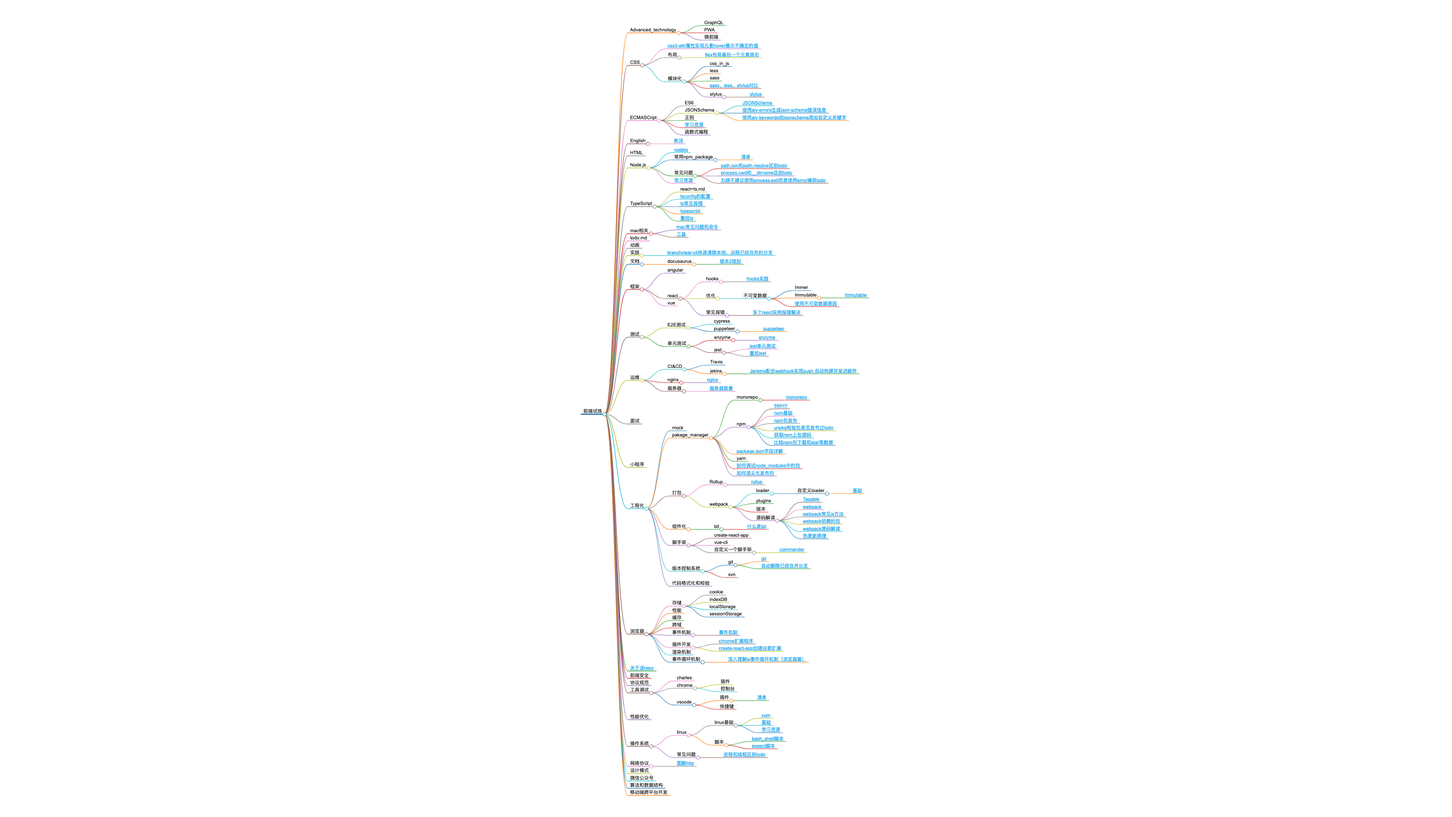
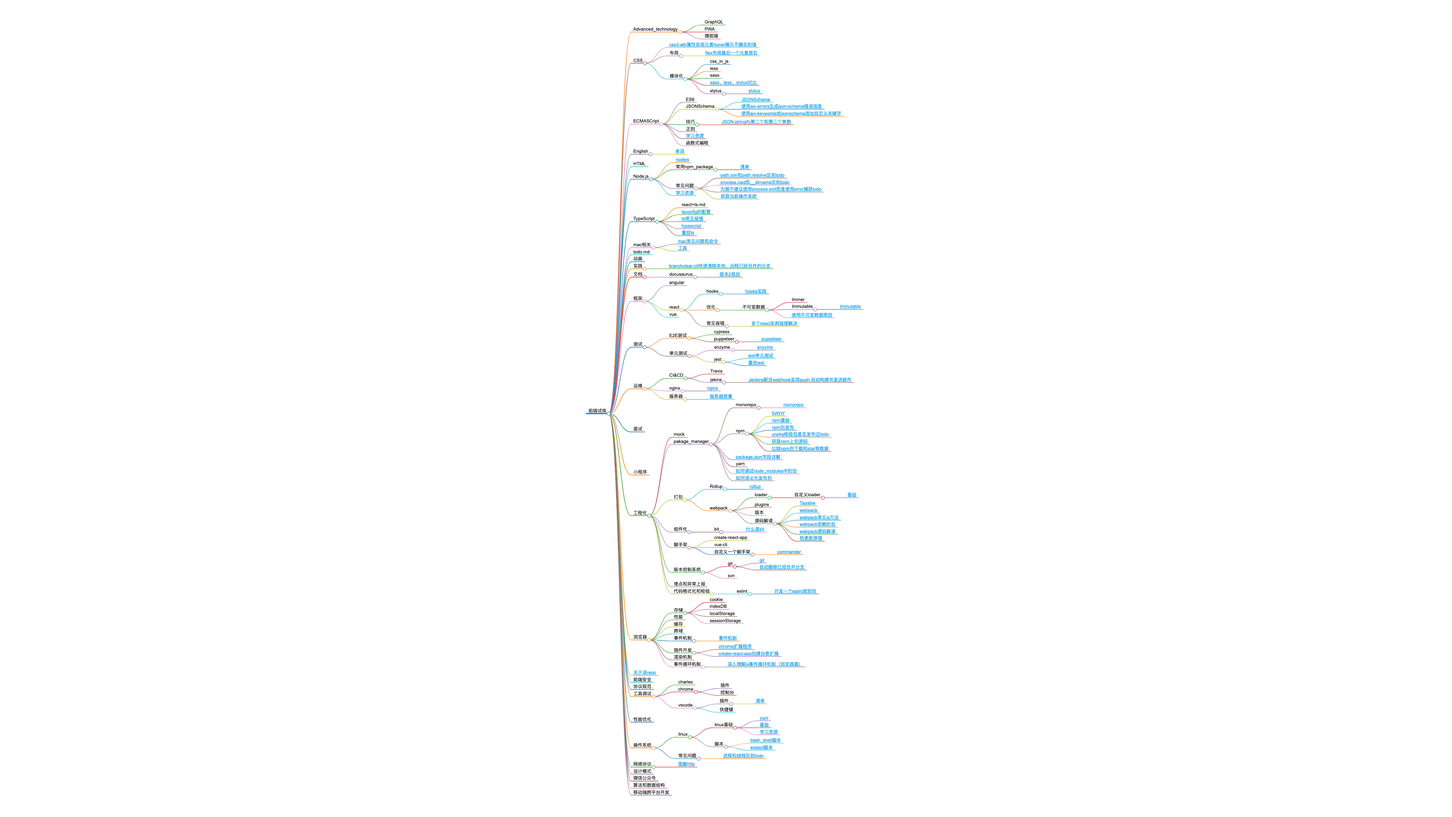
chore: updata思维导图

Changed region(s): [[0.4062, 0.031, 0.5938, 0.9926]]

diff --git a/website/static/xmind.html b/website/static/xmind.html
@@ -28,6 +28,6 @@
         (init ? init(loadPlugins, items, opts) : Promise.resolve()).then(() => {
           window.mm = Markmap.create('svg#mindmap', null, data);
         });
-      })({"t":"heading","d":1,"v":"前端试炼","c":[{"t":"list_item","d":2,"v":"Advanced_technology","c":[{"t":"list_item","d":3,"v":"GraphQL"},{"t":"list_item","d":3,"v":"PWA"},{"t":"list_item","d":3,"v":"微前端"}]},{"t":"list_item","d":2,"v":"CSS","c":[{"t":"list_item","d":3,"v":"<a href=\"docs/CSS/0729c4e1a19b9e3b6904b91e63cbd435\" title=\"\" target=\"_blank\" rel=\"noopener noreferrer\">css3-attr属性实现元素hover展示不确定的值</a>"},{"t":"list_item","d":3,"v":"布局","c":[{"t":"list_item","d":4,"v":"<a href=\"docs/CSS/布局/d894294d8c56ce41da5469f6ed173daf\" title=\"\" target=\"_blank\" rel=\"noopener noreferrer\">flex布局最后一个元素居右</a>"}]},{"t":"list_item","d":3,"v":"模块化","c":[{"t":"list_item","d":4,"v":"css_in_js"},{"t":"list_item","d":4,"v":"less"},{"t":"list_item","d":4,"v":"sass"},{"t":"list_item","d":4,"v":"<a href=\"docs/CSS/模块化/98c70242585e1c8ac87207d342ab81e0\" title=\"\" target=\"_blank\" rel=\"noopener noreferrer\">sass、less、stylus对比</a>"},{"t":"list_item","d":4,"v":"stylus","c":[{"t":"list_item","d":5,"v":"<a href=\"docs/CSS/模块化/stylus/1de4cb8a5702a6a347c89999bfa433d2\" title=\"\" target=\"_blank\" rel=\"noopener noreferrer\">stylus</a>"}]}]}]},{"t":"list_item","d":2,"v":"ECMASCript","c":[{"t":"list_item","d":3,"v":"ES6"},{"t":"list_item","d":3,"v":"JSONSchema","c":[{"t":"list_item","d":4,"v":"<a href=\"docs/ECMASCript/JSONSchema/718deb34c13a2d51e3c2ba69f472fce9\" title=\"\" target=\"_blank\" rel=\"noopener noreferrer\">JSONSchema</a>"},{"t":"list_item","d":4,"v":"<a href=\"docs/ECMASCript/JSONSchema/f7964c8f9054ea24043d6089ad339147\" title=\"\" target=\"_blank\" rel=\"noopener noreferrer\">使用ajv-errors生成json-schema错误信息</a>"},{"t":"list_item","d":4,"v":"<a href=\"docs/ECMASCript/JSONSchema/5237e232cb7cb852580db82169fdcaeb\" title=\"\" target=\"_blank\" rel=\"noopener noreferrer\">使用ajv-keywords给jsonschema添加自定义关键字</a>"}]},{"t":"list_item","d":3,"v":"正则"},{"t":"list_item","d":3,"v":"<a href=\"docs/ECMASCript/b53484b1bcbe1911e09c68d510ac7d64\" title=\"\" target=\"_blank\" rel=\"noopener noreferrer\">学习资源</a>"},{"t":"list_item","d":3,"v":"函数式编程"}]},{"t":"list_item","d":2,"v":"English","c":[{"t":"list_item","d":3,"v":"<a href=\"docs/English/72a91cf59167d6c497b1e3057447af5a\" title=\"\" target=\"_blank\" rel=\"noopener noreferrer\">单词</a>"}]},{"t":"list_item","d":2,"v":"HTML"},{"t":"list_item","d":2,"v":"Node.js","c":[{"t":"list_item","d":3,"v":"<a href=\"docs/Node.js/2e274f275e0613b306c487b358d94ab7\" title=\"\" target=\"_blank\" rel=\"noopener noreferrer\">nodejs</a>"},{"t":"list_item","d":3,"v":"常用npm_package","c":[{"t":"list_item","d":4,"v":"<a href=\"docs/Node.js/常用npm_package/9688efbb3877b7be40b25452ccaef48f\" title=\"\" target=\"_blank\" rel=\"noopener noreferrer\">清单</a>"}]},{"t":"list_item","d":3,"v":"常见问题","c":[{"t":"list_item","d":4,"v":"<a href=\"docs/Node.js/常见问题/f3a88e293ba7550437f98043f9c3f757\" title=\"\" target=\"_blank\" rel=\"noopener noreferrer\">path.join和path.resolve区别todo</a>"},{"t":"list_item","d":4,"v":"<a href=\"docs/Node.js/常见问题/35e3cab374fc073c688aa0cf2cc1e83e\" title=\"\" target=\"_blank\" rel=\"noopener noreferrer\">process.cwd和__dirname区别todo</a>"},{"t":"list_item","d":4,"v":"<a href=\"docs/Node.js/常见问题/181a14245a9ee55171de2d116970a240\" title=\"\" target=\"_blank\" rel=\"noopener noreferrer\">为啥不建议使用process.exit而是使用error捕获todo</a>"}]},{"t":"list_item","d":3,"v":"<a href=\"docs/ECMASCript/b53484b1bcbe1911e09c68d510ac7d64\" title=\"\" target=\"_blank\" rel=\"noopener noreferrer\">学习资源</a>"}]},{"t":"list_item","d":2,"v":"TypeScript","c":[{"t":"list_item","d":3,"v":"react+ts.md"},{"t":"list_item","d":3,"v":"<a href=\"docs/TypeScript/4a8620d3409c9ccc2760c0abdf77eb66\" title=\"\" target=\"_blank\" rel=\"noopener noreferrer\">tsconfig的配置</a>"},{"t":"list_item","d":3,"v":"<a href=\"docs/TypeScript/32bf4b312a9b194926bd9464ec44dbf1\" title=\"\" target=\"_blank\" rel=\"noopener noreferrer\">ts常见报错</a>"},{"t":"list_item","d":3,"v":"<a href=\"docs/TypeScript/808567b84cc51ad515d4820e54f84e31\" title=\"\" target=\"_blank\" rel=\"noopener noreferrer\">typescript</a>"},{"t":"list_item","d":3,"v":"<a href=\"docs/TypeScript/b36f6376acc1abd98aab96ef91491d2b\" title=\"\" target=\"_blank\" rel=\"noopener noreferrer\">重拾ts</a>"}]},{"t":"list_item","d":2,"v":"mac相关","c":[{"t":"list_item","d":3,"v":"<a href=\"docs/mac相关/a44fd8dd59298708f41334a88822b962\" title=\"\" target=\"_blank\" rel=\"noopener noreferrer\">mac常见问题和命令</a>"},{"t":"list_item","d":3,"v":"<a href=\"docs/mac相关/2b9f15fd56b0c6b3cd5a33c28fc68157\" title=\"\" target=\"_blank\" rel=\"noopener noreferrer\">工具</a>"}]},{"t":"list_item","d":2,"v":"todo.md"},{"t":"list_item","d":2,"v":"动画"},{"t":"list_item","d":2,"v":"实践","c":[{"t":"list_item","d":3,"v":"<a href=\"docs/实践/626060a4af5e1540907d7bcd2416544c\" title=\"\" target=\"_blank\" rel=\"noopener noreferrer\">branchclear-cli快速清除本地、远程已经合并的分支</a>"}]},{"t":"list_item","d":2,"v":"文档","c":[{"t":"list_item","d":3,"v":"docusaurus","c":[{"t":"list_item","d":4,"v":"<a href=\"docs/文档/docusaurus/a7934b68b6234157a1af4087537d1e8b\" title=\"\" target=\"_blank\" rel=\"noopener noreferrer\">版本2规划</a>"}]}]},{"t":"list_item","d":2,"v":"框架","c":[{"t":"list_item","d":3,"v":"angular"},{"t":"list_item","d":3,"v":"react","c":[{"t":"list_item","d":4,"v":"hooks","c":[{"t":"list_item","d":5,"v":"<a href=\"docs/框架/react/hooks/cc79a47e7d739125f1566a487e26fb99\" title=\"\" target=\"_blank\" rel=\"noopener noreferrer\">hooks实践</a>"}]},{"t":"list_item","d":4,"v":"优化","c":[{"t":"list_item","d":5,"v":"不可变数据","c":[{"t":"list_item","d":6,"v":"Immer"},{"t":"list_item","d":6,"v":"Immutable","c":[{"t":"list_item","d":7,"v":"<a href=\"docs/框架/react/优化/不可变数据/Immutable/1d3d9edc29eec0f35eaf85c9e8d5b659\" title=\"\" target=\"_blank\" rel=\"noopener noreferrer\">Immutable</a>"}]},{"t":"list_item","d":6,"v":"<a href=\"docs/框架/react/优化/不可变数据/7f536cb00c3fdc6439f768fb47f7a59e\" title=\"\" target=\"_blank\" rel=\"noopener noreferrer\">使用不可变数据原因</a>"}]}]},{"t":"list_item","d":4,"v":"常见报错","c":[{"t":"list_item","d":5,"v":"<a href=\"docs/框架/react/常见报错/7d0e60c89a5f550eadf89f5f22550bcc\" title=\"\" target=\"_blank\" rel=\"noopener noreferrer\">多个react实例报错解决</a>"}]}]},{"t":"list_item","d":3,"v":"vue"}]},{"t":"list_item","d":2,"v":"测试","c":[{"t":"list_item","d":3,"v":"E2E测试","c":[{"t":"list_item","d":4,"v":"cypress"},{"t":"list_item","d":4,"v":"puppeteer","c":[{"t":"list_item","d":5,"v":"<a href=\"docs/测试/E2E测试/puppeteer/179673e977b3c3f9ad055a4b4a1e4eff\" title=\"\" target=\"_blank\" rel=\"noopener noreferrer\">puppeteer</a>"}]}]},{"t":"list_item","d":3,"v":"单元测试","c":[{"t":"list_item","d":4,"v":"enzyme","c":[{"t":"list_item","d":5,"v":"<a href=\"docs/测试/单元测试/enzyme/ff68fd239a281351a53d6e0b62b17fe7\" title=\"\" target=\"_blank\" rel=\"noopener noreferrer\">enzyme</a>"}]},{"t":"list_item","d":4,"v":"jest","c":[{"t":"list_item","d":5,"v":"<a href=\"docs/测试/单元测试/jest/094b039468990ad513f1f8dd484d8dc2\" title=\"\" target=\"_blank\" rel=\"noopener noreferrer\">jest单元测试</a>"},{"t":"list_item","d":5,"v":"<a href=\"docs/测试/单元测试/jest/b1f6cee7ef1784df1f5f69a9c4a785da\" title=\"\" target=\"_blank\" rel=\"noopener noreferrer\">重拾jest</a>"}]}]}]},{"t":"list_item","d":2,"v":"运维","c":[{"t":"list_item","d":3,"v":"CI&amp;CD","c":[{"t":"list_item","d":4,"v":"Travis"},{"t":"list_item","d":4,"v":"jekins","c":[{"t":"list_item","d":5,"v":"<a href=\"docs/运维/CI&amp;CD/jekins/d945d19c0ddc3f3d3fd73e4e1dabfcf1\" title=\"\" target=\"_blank\" rel=\"noopener noreferrer\">Jenkins配合webhook实现push,自动构建并发送邮件</a>"}]}]},{"t":"list_item","d":3,"v":"nginx","c":[{"t":"list_item","d":4,"v":"<a href=\"docs/运维/nginx/df1da39a6e72280164ae3ce63cb1fc4a\" title=\"\" target=\"_blank\" rel=\"noopener noreferrer\">nginx</a>"}]},{"t":"list_item","d":3,"v":"服务器","c":[{"t":"list_item","d":4,"v":"<a href=\"docs/运维/服务器/08c9e14f9b32a6e0c3ce858267d3e639\" title=\"\" target=\"_blank\" rel=\"noopener noreferrer\">服务器部署</a>"}]}]},{"t":"list_item","d":2,"v":"面试"},{"t":"list_item","d":2,"v":"小程序"},{"t":"list_item","d":2,"v":"工程化","c":[{"t":"list_item","d":3,"v":"mock"},{"t":"list_item","d":3,"v":"pakage_manager","c":[{"t":"list_item","d":4,"v":"monorepo","c":[{"t":"list_item","d":5,"v":"<a href=\"docs/工程化/pakage_manager/monorepo/8f5278ed6bda43d57e7b77d4c5a243e6\" title=\"\" target=\"_blank\" rel=\"noopener noreferrer\">monorepo</a>"}]},{"t":"list_item","d":4,"v":"npm","c":[{"t":"list_item","d":5,"v":"<a href=\"docs/工程化/pakage_manager/npm/c7133389f53e8d534c388d5ce8b37459\" title=\"\" target=\"_blank\" rel=\"noopener noreferrer\">5WHY</a>"},{"t":"list_item","d":5,"v":"<a href=\"docs/工程化/pakage_manager/npm/4bc8b6d9c0d959fc89304c7b6ca759d2\" title=\"\" target=\"_blank\" rel=\"noopener noreferrer\">npm基础</a>"},{"t":"list_item","d":5,"v":"<a href=\"docs/工程化/pakage_manager/npm/ba56c3b18aefa148f9439f026ec3f973\" title=\"\" target=\"_blank\" rel=\"noopener noreferrer\">npm包发布</a>"},{"t":"list_item","d":5,"v":"<a href=\"docs/工程化/pakage_manager/npm/d65b7b7b836dd8738e6504b00c5d8ec9\" title=\"\" target=\"_blank\" rel=\"noopener noreferrer\">unpkg校验包是否发布过todo</a>"},{"t":"list_item","d":5,"v":"<a href=\"docs/工程化/pakage_manager/npm/09b0d7c93d19d925aaec8215b046a974\" title=\"\" target=\"_blank\" rel=\"noopener noreferrer\">获取npm上包源码</a>"},{"t":"list_item","d":5,"v":"<a href=\"docs/工程化/pakage_manager/npm/c6ce67aed5b47d0a31123ae15d9e581a\" title=\"\" target=\"_blank\" rel=\"noopener noreferrer\">比较npm包下载和star等数据</a>"}]},{"t":"list_item","d":4,"v":"<a href=\"docs/工程化/pakage_manager/38f14e8081af1e36ddd422fa9b4db94a\" title=\"\" target=\"_blank\" rel=\"noopener noreferrer\">package.json字段详解</a>"},{"t":"list_item","d":4,"v":"yarn"},{"t":"list_item","d":4,"v":"<a href=\"docs/工程化/pakage_manager/e6a07bea153f8b002ef8dc47f8bc1311\" title=\"\" target=\"_blank\" rel=\"noopener noreferrer\">如何调试node_modules中的包</a>"},{"t":"list_item","d":4,"v":"<a href=\"docs/工程化/pakage_manager/ec0f88d99c3ac3c6b5038c575ac4d1ce\" title=\"\" target=\"_blank\" rel=\"noopener noreferrer\">如何语义化发布包</a>"}]},{"t":"list_item","d":3,"v":"打包","c":[{"t":"list_item","d":4,"v":"Rollup","c":[{"t":"list_item","d":5,"v":"<a href=\"docs/工程化/打包/Rollup/4918d3072fb3da6be9ad6cfe54c020f3\" title=\"\" target=\"_blank\" rel=\"noopener noreferrer\">rollup</a>"}]},{"t":"list_item","d":4,"v":"webpack","c":[{"t":"list_item","d":5,"v":"loader","c":[{"t":"list_item","d":6,"v":"自定义loader","c":[{"t":"list_item","d":7,"v":"<a href=\"docs/工程化/打包/webpack/loader/自定义loader/9b68a2b86fd6b41392413eebbe754257\" title=\"\" target=\"_blank\" rel=\"noopener noreferrer\">基础</a>"}]}]},{"t":"list_item","d":5,"v":"plugins"},{"t":"list_item","d":5,"v":"版本"},{"t":"list_item","d":5,"v":"源码解读","c":[{"t":"list_item","d":6,"v":"<a href=\"docs/工程化/打包/webpack/源码解读/3044cf73a36f83e5344247f79ffb719e\" title=\"\" target=\"_blank\" rel=\"noopener noreferrer\">Tapable</a>"},{"t":"list_item","d":6,"v":"<a href=\"docs/工程化/打包/webpack/源码解读/8b9409a6ad189493556150ffca9a2079\" title=\"\" target=\"_blank\" rel=\"noopener noreferrer\">webpack</a>"},{"t":"list_item","d":6,"v":"<a href=\"docs/工程化/打包/webpack/源码解读/7cb10912f28c1696659c6131b517f27c\" title=\"\" target=\"_blank\" rel=\"noopener noreferrer\">webpack常见js方法</a>"},{"t":"list_item","d":6,"v":"<a href=\"docs/工程化/打包/webpack/源码解读/0889ebe5191ee49173a6c02e5d4ccd6f\" title=\"\" target=\"_blank\" rel=\"noopener noreferrer\">webpack依赖的包</a>"},{"t":"list_item","d":6,"v":"<a href=\"docs/工程化/打包/webpack/源码解读/80e8979bbebe30571bf98fea6d3b32d0\" title=\"\" target=\"_blank\" rel=\"noopener noreferrer\">webpack源码解读</a>"},{"t":"list_item","d":6,"v":"<a href=\"docs/工程化/打包/webpack/源码解读/768e191e2dc797ba437ddbf619dcf3b5\" title=\"\" target=\"_blank\" rel=\"noopener noreferrer\">热更新原理</a>"}]}]}]},{"t":"list_item","d":3,"v":"组件化","c":[{"t":"list_item","d":4,"v":"bit","c":[{"t":"list_item","d":5,"v":"<a href=\"docs/工程化/组件化/bit/a0d47b851468953d2c75ec36293fc240\" title=\"\" target=\"_blank\" rel=\"noopener noreferrer\">什么是bit</a>"}]}]},{"t":"list_item","d":3,"v":"脚手架","c":[{"t":"list_item","d":4,"v":"create-react-app"},{"t":"list_item","d":4,"v":"vue-cli"},{"t":"list_item","d":4,"v":"自定义一个脚手架","c":[{"t":"list_item","d":5,"v":"<a href=\"docs/工程化/脚手架/自定义一个脚手架/e1f3c1423014acd77d6282114faf6935\" title=\"\" target=\"_blank\" rel=\"noopener noreferrer\">commander</a>"}]}]},{"t":"list_item","d":3,"v":"版本控制系统","c":[{"t":"list_item","d":4,"v":"git","c":[{"t":"list_item","d":5,"v":"<a href=\"docs/工程化/版本控制系统/git/85735fc293ff4dbf3ef3e42201cb061d\" title=\"\" target=\"_blank\" rel=\"noopener noreferrer\">git</a>"},{"t":"list_item","d":5,"v":"<a href=\"docs/工程化/版本控制系统/git/7ee6448a4e193516af12ff819b930f2f\" title=\"\" target=\"_blank\" rel=\"noopener noreferrer\">自动删除已经合并分支</a>"}]},{"t":"list_item","d":4,"v":"svn"}]},{"t":"list_item","d":3,"v":"代码格式化和校验"}]},{"t":"list_item","d":2,"v":"浏览器","c":[{"t":"list_item","d":3,"v":"存储","c":[{"t":"list_item","d":4,"v":"cookie"},{"t":"list_item","d":4,"v":"indexDB"},{"t":"list_item","d":4,"v":"localStorage"},{"t":"list_item","d":4,"v":"sessionStorage"}]},{"t":"list_item","d":3,"v":"性能"},{"t":"list_item","d":3,"v":"缓存"},{"t":"list_item","d":3,"v":"跨域"},{"t":"list_item","d":3,"v":"事件机制","c":[{"t":"list_item","d":4,"v":"<a href=\"docs/浏览器/事件机制/7af5dc889f753bd70e5f7ef171c7060f\" title=\"\" target=\"_blank\" rel=\"noopener noreferrer\">事件机制</a>"}]},{"t":"list_item","d":3,"v":"插件开发","c":[{"t":"list_item","d":4,"v":"<a href=\"docs/浏览器/插件开发/2c4c0445df023db773d193c34210f844\" title=\"\" target=\"_blank\" rel=\"noopener noreferrer\">chrome扩展程序</a>"},{"t":"list_item","d":4,"v":"<a href=\"docs/浏览器/插件开发/bfe71b448da24918198c18263f04233a\" title=\"\" target=\"_blank\" rel=\"noopener noreferrer\">create-react-app创建谷歌扩展</a>"}]},{"t":"list_item","d":3,"v":"渲染机制"},{"t":"list_item","d":3,"v":"事件循环机制","c":[{"t":"list_item","d":4,"v":"<a href=\"docs/浏览器/事件循环机制/dc678db259507b0c4aeb94631e2dc8a7\" title=\"\" target=\"_blank\" rel=\"noopener noreferrer\">深入理解js事件循环机制（浏览器篇）</a>"}]}]},{"t":"list_item","d":2,"v":"<a href=\"docs/95a148348b289ba387509c05eb1c6af2\" title=\"\" target=\"_blank\" rel=\"noopener noreferrer\">关于该repo</a>"},{"t":"list_item","d":2,"v":"前端安全"},{"t":"list_item","d":2,"v":"协议规范"},{"t":"list_item","d":2,"v":"工具调试","c":[{"t":"list_item","d":3,"v":"charles"},{"t":"list_item","d":3,"v":"chrome","c":[{"t":"list_item","d":4,"v":"插件"},{"t":"list_item","d":4,"v":"控制台"}]},{"t":"list_item","d":3,"v":"vscode","c":[{"t":"list_item","d":4,"v":"插件","c":[{"t":"list_item","d":5,"v":"<a href=\"docs/Node.js/常用npm_package/9688efbb3877b7be40b25452ccaef48f\" title=\"\" target=\"_blank\" rel=\"noopener noreferrer\">清单</a>"}]},{"t":"list_item","d":4,"v":"快捷键"}]}]},{"t":"list_item","d":2,"v":"性能优化"},{"t":"list_item","d":2,"v":"操作系统","c":[{"t":"list_item","d":3,"v":"linux","c":[{"t":"list_item","d":4,"v":"linux基础","c":[{"t":"list_item","d":5,"v":"<a href=\"docs/操作系统/linux/linux基础/760bccd78d82b9e52641e9273b7baad5\" title=\"\" target=\"_blank\" rel=\"noopener noreferrer\">yum</a>"},{"t":"list_item","d":5,"v":"<a href=\"docs/工程化/打包/webpack/loader/自定义loader/9b68a2b86fd6b41392413eebbe754257\" title=\"\" target=\"_blank\" rel=\"noopener noreferrer\">基础</a>"},{"t":"list_item","d":5,"v":"<a href=\"docs/ECMASCript/b53484b1bcbe1911e09c68d510ac7d64\" title=\"\" target=\"_blank\" rel=\"noopener noreferrer\">学习资源</a>"}]},{"t":"list_item","d":4,"v":"脚本","c":[{"t":"list_item","d":5,"v":"<a href=\"docs/操作系统/linux/脚本/5d8743a01675138db72310478b6c7f30\" title=\"\" target=\"_blank\" rel=\"noopener noreferrer\">bash_shell脚本</a>"},{"t":"list_item","d":5,"v":"<a href=\"docs/操作系统/linux/脚本/c89e3ed149c086944696ba0fe3a5ffde\" title=\"\" target=\"_blank\" rel=\"noopener noreferrer\">expect脚本</a>"}]}]},{"t":"list_item","d":3,"v":"常见问题","c":[{"t":"list_item","d":4,"v":"<a href=\"docs/操作系统/常见问题/5d2f732d1880309d622ee322b766ddcb\" title=\"\" target=\"_blank\" rel=\"noopener noreferrer\">进程和线程区别todo</a>"}]}]},{"t":"list_item","d":2,"v":"网络协议","c":[{"t":"list_item","d":3,"v":"<a href=\"docs/网络协议/a7785cd0374e6044ab0a1c64fbbc81fa\" title=\"\" target=\"_blank\" rel=\"noopener noreferrer\">图解http</a>"}]},{"t":"list_item","d":2,"v":"设计模式"},{"t":"list_item","d":2,"v":"微信公众号"},{"t":"list_item","d":2,"v":"算法和数据结构"},{"t":"list_item","d":2,"v":"移动端跨平台开发"}]},(loadPlugins, items, opts) => loadPlugins(items, opts),["prism"],{"prism":true})</script>
+      })({"t":"heading","d":1,"v":"前端试炼","c":[{"t":"list_item","d":2,"v":"Advanced_technology","c":[{"t":"list_item","d":3,"v":"GraphQL"},{"t":"list_item","d":3,"v":"PWA"},{"t":"list_item","d":3,"v":"微前端"}]},{"t":"list_item","d":2,"v":"CSS","c":[{"t":"list_item","d":3,"v":"<a href=\"docs/CSS/0729c4e1a19b9e3b6904b91e63cbd435\" title=\"\" target=\"_blank\" rel=\"noopener noreferrer\">css3-attr属性实现元素hover展示不确定的值</a>"},{"t":"list_item","d":3,"v":"布局","c":[{"t":"list_item","d":4,"v":"<a href=\"docs/CSS/布局/d894294d8c56ce41da5469f6ed173daf\" title=\"\" target=\"_blank\" rel=\"noopener noreferrer\">flex布局最后一个元素居右</a>"}]},{"t":"list_item","d":3,"v":"模块化","c":[{"t":"list_item","d":4,"v":"css_in_js"},{"t":"list_item","d":4,"v":"less"},{"t":"list_item","d":4,"v":"sass"},{"t":"list_item","d":4,"v":"<a href=\"docs/CSS/模块化/98c70242585e1c8ac87207d342ab81e0\" title=\"\" target=\"_blank\" rel=\"noopener noreferrer\">sass、less、stylus对比</a>"},{"t":"list_item","d":4,"v":"stylus","c":[{"t":"list_item","d":5,"v":"<a href=\"docs/CSS/模块化/stylus/1de4cb8a5702a6a347c89999bfa433d2\" title=\"\" target=\"_blank\" rel=\"noopener noreferrer\">stylus</a>"}]}]}]},{"t":"list_item","d":2,"v":"ECMASCript","c":[{"t":"list_item","d":3,"v":"ES6"},{"t":"list_item","d":3,"v":"JSONSchema","c":[{"t":"list_item","d":4,"v":"<a href=\"docs/ECMASCript/JSONSchema/718deb34c13a2d51e3c2ba69f472fce9\" title=\"\" target=\"_blank\" rel=\"noopener noreferrer\">JSONSchema</a>"},{"t":"list_item","d":4,"v":"<a href=\"docs/ECMASCript/JSONSchema/f7964c8f9054ea24043d6089ad339147\" title=\"\" target=\"_blank\" rel=\"noopener noreferrer\">使用ajv-errors生成json-schema错误信息</a>"},{"t":"list_item","d":4,"v":"<a href=\"docs/ECMASCript/JSONSchema/5237e232cb7cb852580db82169fdcaeb\" title=\"\" target=\"_blank\" rel=\"noopener noreferrer\">使用ajv-keywords给jsonschema添加自定义关键字</a>"}]},{"t":"list_item","d":3,"v":"技巧","c":[{"t":"list_item","d":4,"v":"<a href=\"docs/ECMASCript/技巧/5ba5a0a4b23bea437b86bee22027111d\" title=\"\" target=\"_blank\" rel=\"noopener noreferrer\">JSON.stringify第二个和第三个参数</a>"}]},{"t":"list_item","d":3,"v":"正则"},{"t":"list_item","d":3,"v":"<a href=\"docs/ECMASCript/b53484b1bcbe1911e09c68d510ac7d64\" title=\"\" target=\"_blank\" rel=\"noopener noreferrer\">学习资源</a>"},{"t":"list_item","d":3,"v":"函数式编程"}]},{"t":"list_item","d":2,"v":"English","c":[{"t":"list_item","d":3,"v":"<a href=\"docs/English/72a91cf59167d6c497b1e3057447af5a\" title=\"\" target=\"_blank\" rel=\"noopener noreferrer\">单词</a>"}]},{"t":"list_item","d":2,"v":"HTML"},{"t":"list_item","d":2,"v":"Node.js","c":[{"t":"list_item","d":3,"v":"<a href=\"docs/Node.js/2e274f275e0613b306c487b358d94ab7\" title=\"\" target=\"_blank\" rel=\"noopener noreferrer\">nodejs</a>"},{"t":"list_item","d":3,"v":"常用npm_package","c":[{"t":"list_item","d":4,"v":"<a href=\"docs/Node.js/常用npm_package/9688efbb3877b7be40b25452ccaef48f\" title=\"\" target=\"_blank\" rel=\"noopener noreferrer\">清单</a>"}]},{"t":"list_item","d":3,"v":"常见问题","c":[{"t":"list_item","d":4,"v":"<a href=\"docs/Node.js/常见问题/f3a88e293ba7550437f98043f9c3f757\" title=\"\" target=\"_blank\" rel=\"noopener noreferrer\">path.join和path.resolve区别todo</a>"},{"t":"list_item","d":4,"v":"<a href=\"docs/Node.js/常见问题/35e3cab374fc073c688aa0cf2cc1e83e\" title=\"\" target=\"_blank\" rel=\"noopener noreferrer\">process.cwd和__dirname区别todo</a>"},{"t":"list_item","d":4,"v":"<a href=\"docs/Node.js/常见问题/181a14245a9ee55171de2d116970a240\" title=\"\" target=\"_blank\" rel=\"noopener noreferrer\">为啥不建议使用process.exit而是使用error捕获todo</a>"},{"t":"list_item","d":4,"v":"<a href=\"docs/Node.js/常见问题/34f53dc634b7e09e8d32279fb508f4c5\" title=\"\" target=\"_blank\" rel=\"noopener noreferrer\">获取当前操作系统</a>"}]},{"t":"list_item","d":3,"v":"<a href=\"docs/ECMASCript/b53484b1bcbe1911e09c68d510ac7d64\" title=\"\" target=\"_blank\" rel=\"noopener noreferrer\">学习资源</a>"}]},{"t":"list_item","d":2,"v":"TypeScript","c":[{"t":"list_item","d":3,"v":"react+ts.md"},{"t":"list_item","d":3,"v":"<a href=\"docs/TypeScript/4a8620d3409c9ccc2760c0abdf77eb66\" title=\"\" target=\"_blank\" rel=\"noopener noreferrer\">tsconfig的配置</a>"},{"t":"list_item","d":3,"v":"<a href=\"docs/TypeScript/32bf4b312a9b194926bd9464ec44dbf1\" title=\"\" target=\"_blank\" rel=\"noopener noreferrer\">ts常见报错</a>"},{"t":"list_item","d":3,"v":"<a href=\"docs/TypeScript/808567b84cc51ad515d4820e54f84e31\" title=\"\" target=\"_blank\" rel=\"noopener noreferrer\">typescript</a>"},{"t":"list_item","d":3,"v":"<a href=\"docs/TypeScript/b36f6376acc1abd98aab96ef91491d2b\" title=\"\" target=\"_blank\" rel=\"noopener noreferrer\">重拾ts</a>"}]},{"t":"list_item","d":2,"v":"mac相关","c":[{"t":"list_item","d":3,"v":"<a href=\"docs/mac相关/a44fd8dd59298708f41334a88822b962\" title=\"\" target=\"_blank\" rel=\"noopener noreferrer\">mac常见问题和命令</a>"},{"t":"list_item","d":3,"v":"<a href=\"docs/mac相关/2b9f15fd56b0c6b3cd5a33c28fc68157\" title=\"\" target=\"_blank\" rel=\"noopener noreferrer\">工具</a>"}]},{"t":"list_item","d":2,"v":"todo.md"},{"t":"list_item","d":2,"v":"动画"},{"t":"list_item","d":2,"v":"实践","c":[{"t":"list_item","d":3,"v":"<a href=\"docs/实践/626060a4af5e1540907d7bcd2416544c\" title=\"\" target=\"_blank\" rel=\"noopener noreferrer\">branchclear-cli快速清除本地、远程已经合并的分支</a>"}]},{"t":"list_item","d":2,"v":"文档","c":[{"t":"list_item","d":3,"v":"docusaurus","c":[{"t":"list_item","d":4,"v":"<a href=\"docs/文档/docusaurus/a7934b68b6234157a1af4087537d1e8b\" title=\"\" target=\"_blank\" rel=\"noopener noreferrer\">版本2规划</a>"}]}]},{"t":"list_item","d":2,"v":"框架","c":[{"t":"list_item","d":3,"v":"angular"},{"t":"list_item","d":3,"v":"react","c":[{"t":"list_item","d":4,"v":"hooks","c":[{"t":"list_item","d":5,"v":"<a href=\"docs/框架/react/hooks/cc79a47e7d739125f1566a487e26fb99\" title=\"\" target=\"_blank\" rel=\"noopener noreferrer\">hooks实践</a>"}]},{"t":"list_item","d":4,"v":"优化","c":[{"t":"list_item","d":5,"v":"不可变数据","c":[{"t":"list_item","d":6,"v":"Immer"},{"t":"list_item","d":6,"v":"Immutable","c":[{"t":"list_item","d":7,"v":"<a href=\"docs/框架/react/优化/不可变数据/Immutable/1d3d9edc29eec0f35eaf85c9e8d5b659\" title=\"\" target=\"_blank\" rel=\"noopener noreferrer\">Immutable</a>"}]},{"t":"list_item","d":6,"v":"<a href=\"docs/框架/react/优化/不可变数据/7f536cb00c3fdc6439f768fb47f7a59e\" title=\"\" target=\"_blank\" rel=\"noopener noreferrer\">使用不可变数据原因</a>"}]}]},{"t":"list_item","d":4,"v":"常见报错","c":[{"t":"list_item","d":5,"v":"<a href=\"docs/框架/react/常见报错/7d0e60c89a5f550eadf89f5f22550bcc\" title=\"\" target=\"_blank\" rel=\"noopener noreferrer\">多个react实例报错解决</a>"}]}]},{"t":"list_item","d":3,"v":"vue"}]},{"t":"list_item","d":2,"v":"测试","c":[{"t":"list_item","d":3,"v":"E2E测试","c":[{"t":"list_item","d":4,"v":"cypress"},{"t":"list_item","d":4,"v":"puppeteer","c":[{"t":"list_item","d":5,"v":"<a href=\"docs/测试/E2E测试/puppeteer/179673e977b3c3f9ad055a4b4a1e4eff\" title=\"\" target=\"_blank\" rel=\"noopener noreferrer\">puppeteer</a>"}]}]},{"t":"list_item","d":3,"v":"单元测试","c":[{"t":"list_item","d":4,"v":"enzyme","c":[{"t":"list_item","d":5,"v":"<a href=\"docs/测试/单元测试/enzyme/ff68fd239a281351a53d6e0b62b17fe7\" title=\"\" target=\"_blank\" rel=\"noopener noreferrer\">enzyme</a>"}]},{"t":"list_item","d":4,"v":"jest","c":[{"t":"list_item","d":5,"v":"<a href=\"docs/测试/单元测试/jest/094b039468990ad513f1f8dd484d8dc2\" title=\"\" target=\"_blank\" rel=\"noopener noreferrer\">jest单元测试</a>"},{"t":"list_item","d":5,"v":"<a href=\"docs/测试/单元测试/jest/b1f6cee7ef1784df1f5f69a9c4a785da\" title=\"\" target=\"_blank\" rel=\"noopener noreferrer\">重拾jest</a>"}]}]}]},{"t":"list_item","d":2,"v":"运维","c":[{"t":"list_item","d":3,"v":"CI&amp;CD","c":[{"t":"list_item","d":4,"v":"Travis"},{"t":"list_item","d":4,"v":"jekins","c":[{"t":"list_item","d":5,"v":"<a href=\"docs/运维/CI&amp;CD/jekins/d945d19c0ddc3f3d3fd73e4e1dabfcf1\" title=\"\" target=\"_blank\" rel=\"noopener noreferrer\">Jenkins配合webhook实现push,自动构建并发送邮件</a>"}]}]},{"t":"list_item","d":3,"v":"nginx","c":[{"t":"list_item","d":4,"v":"<a href=\"docs/运维/nginx/df1da39a6e72280164ae3ce63cb1fc4a\" title=\"\" target=\"_blank\" rel=\"noopener noreferrer\">nginx</a>"}]},{"t":"list_item","d":3,"v":"服务器","c":[{"t":"list_item","d":4,"v":"<a href=\"docs/运维/服务器/08c9e14f9b32a6e0c3ce858267d3e639\" title=\"\" target=\"_blank\" rel=\"noopener noreferrer\">服务器部署</a>"}]}]},{"t":"list_item","d":2,"v":"面试"},{"t":"list_item","d":2,"v":"小程序"},{"t":"list_item","d":2,"v":"工程化","c":[{"t":"list_item","d":3,"v":"mock"},{"t":"list_item","d":3,"v":"pakage_manager","c":[{"t":"list_item","d":4,"v":"monorepo","c":[{"t":"list_item","d":5,"v":"<a href=\"docs/工程化/pakage_manager/monorepo/8f5278ed6bda43d57e7b77d4c5a243e6\" title=\"\" target=\"_blank\" rel=\"noopener noreferrer\">monorepo</a>"}]},{"t":"list_item","d":4,"v":"npm","c":[{"t":"list_item","d":5,"v":"<a href=\"docs/工程化/pakage_manager/npm/c7133389f53e8d534c388d5ce8b37459\" title=\"\" target=\"_blank\" rel=\"noopener noreferrer\">5WHY</a>"},{"t":"list_item","d":5,"v":"<a href=\"docs/工程化/pakage_manager/npm/4bc8b6d9c0d959fc89304c7b6ca759d2\" title=\"\" target=\"_blank\" rel=\"noopener noreferrer\">npm基础</a>"},{"t":"list_item","d":5,"v":"<a href=\"docs/工程化/pakage_manager/npm/ba56c3b18aefa148f9439f026ec3f973\" title=\"\" target=\"_blank\" rel=\"noopener noreferrer\">npm包发布</a>"},{"t":"list_item","d":5,"v":"<a href=\"docs/工程化/pakage_manager/npm/d65b7b7b836dd8738e6504b00c5d8ec9\" title=\"\" target=\"_blank\" rel=\"noopener noreferrer\">unpkg校验包是否发布过todo</a>"},{"t":"list_item","d":5,"v":"<a href=\"docs/工程化/pakage_manager/npm/09b0d7c93d19d925aaec8215b046a974\" title=\"\" target=\"_blank\" rel=\"noopener noreferrer\">获取npm上包源码</a>"},{"t":"list_item","d":5,"v":"<a href=\"docs/工程化/pakage_manager/npm/c6ce67aed5b47d0a31123ae15d9e581a\" title=\"\" target=\"_blank\" rel=\"noopener noreferrer\">比较npm包下载和star等数据</a>"}]},{"t":"list_item","d":4,"v":"<a href=\"docs/工程化/pakage_manager/38f14e8081af1e36ddd422fa9b4db94a\" title=\"\" target=\"_blank\" rel=\"noopener noreferrer\">package.json字段详解</a>"},{"t":"list_item","d":4,"v":"yarn"},{"t":"list_item","d":4,"v":"<a href=\"docs/工程化/pakage_manager/e6a07bea153f8b002ef8dc47f8bc1311\" title=\"\" target=\"_blank\" rel=\"noopener noreferrer\">如何调试node_modules中的包</a>"},{"t":"list_item","d":4,"v":"<a href=\"docs/工程化/pakage_manager/ec0f88d99c3ac3c6b5038c575ac4d1ce\" title=\"\" target=\"_blank\" rel=\"noopener noreferrer\">如何语义化发布包</a>"}]},{"t":"list_item","d":3,"v":"打包","c":[{"t":"list_item","d":4,"v":"Rollup","c":[{"t":"list_item","d":5,"v":"<a href=\"docs/工程化/打包/Rollup/4918d3072fb3da6be9ad6cfe54c020f3\" title=\"\" target=\"_blank\" rel=\"noopener noreferrer\">rollup</a>"}]},{"t":"list_item","d":4,"v":"webpack","c":[{"t":"list_item","d":5,"v":"loader","c":[{"t":"list_item","d":6,"v":"自定义loader","c":[{"t":"list_item","d":7,"v":"<a href=\"docs/工程化/打包/webpack/loader/自定义loader/9b68a2b86fd6b41392413eebbe754257\" title=\"\" target=\"_blank\" rel=\"noopener noreferrer\">基础</a>"}]}]},{"t":"list_item","d":5,"v":"plugins"},{"t":"list_item","d":5,"v":"版本"},{"t":"list_item","d":5,"v":"源码解读","c":[{"t":"list_item","d":6,"v":"<a href=\"docs/工程化/打包/webpack/源码解读/3044cf73a36f83e5344247f79ffb719e\" title=\"\" target=\"_blank\" rel=\"noopener noreferrer\">Tapable</a>"},{"t":"list_item","d":6,"v":"<a href=\"docs/工程化/打包/webpack/源码解读/8b9409a6ad189493556150ffca9a2079\" title=\"\" target=\"_blank\" rel=\"noopener noreferrer\">webpack</a>"},{"t":"list_item","d":6,"v":"<a href=\"docs/工程化/打包/webpack/源码解读/7cb10912f28c1696659c6131b517f27c\" title=\"\" target=\"_blank\" rel=\"noopener noreferrer\">webpack常见js方法</a>"},{"t":"list_item","d":6,"v":"<a href=\"docs/工程化/打包/webpack/源码解读/0889ebe5191ee49173a6c02e5d4ccd6f\" title=\"\" target=\"_blank\" rel=\"noopener noreferrer\">webpack依赖的包</a>"},{"t":"list_item","d":6,"v":"<a href=\"docs/工程化/打包/webpack/源码解读/80e8979bbebe30571bf98fea6d3b32d0\" title=\"\" target=\"_blank\" rel=\"noopener noreferrer\">webpack源码解读</a>"},{"t":"list_item","d":6,"v":"<a href=\"docs/工程化/打包/webpack/源码解读/768e191e2dc797ba437ddbf619dcf3b5\" title=\"\" target=\"_blank\" rel=\"noopener noreferrer\">热更新原理</a>"}]}]}]},{"t":"list_item","d":3,"v":"组件化","c":[{"t":"list_item","d":4,"v":"bit","c":[{"t":"list_item","d":5,"v":"<a href=\"docs/工程化/组件化/bit/a0d47b851468953d2c75ec36293fc240\" title=\"\" target=\"_blank\" rel=\"noopener noreferrer\">什么是bit</a>"}]}]},{"t":"list_item","d":3,"v":"脚手架","c":[{"t":"list_item","d":4,"v":"create-react-app"},{"t":"list_item","d":4,"v":"vue-cli"},{"t":"list_item","d":4,"v":"自定义一个脚手架","c":[{"t":"list_item","d":5,"v":"<a href=\"docs/工程化/脚手架/自定义一个脚手架/e1f3c1423014acd77d6282114faf6935\" title=\"\" target=\"_blank\" rel=\"noopener noreferrer\">commander</a>"}]}]},{"t":"list_item","d":3,"v":"版本控制系统","c":[{"t":"list_item","d":4,"v":"git","c":[{"t":"list_item","d":5,"v":"<a href=\"docs/工程化/版本控制系统/git/85735fc293ff4dbf3ef3e42201cb061d\" title=\"\" target=\"_blank\" rel=\"noopener noreferrer\">git</a>"},{"t":"list_item","d":5,"v":"<a href=\"docs/工程化/版本控制系统/git/7ee6448a4e193516af12ff819b930f2f\" title=\"\" target=\"_blank\" rel=\"noopener noreferrer\">自动删除已经合并分支</a>"}]},{"t":"list_item","d":4,"v":"svn"}]},{"t":"list_item","d":3,"v":"埋点和异常上报"},{"t":"list_item","d":3,"v":"代码格式化和校验","c":[{"t":"list_item","d":4,"v":"eslint","c":[{"t":"list_item","d":5,"v":"<a href=\"docs/工程化/代码格式化和校验/eslint/d8f7b00347a3af68dcfcf44d01eaecad\" title=\"\" target=\"_blank\" rel=\"noopener noreferrer\">开发一个eslint规则包</a>"}]}]}]},{"t":"list_item","d":2,"v":"浏览器","c":[{"t":"list_item","d":3,"v":"存储","c":[{"t":"list_item","d":4,"v":"cookie"},{"t":"list_item","d":4,"v":"indexDB"},{"t":"list_item","d":4,"v":"localStorage"},{"t":"list_item","d":4,"v":"sessionStorage"}]},{"t":"list_item","d":3,"v":"性能"},{"t":"list_item","d":3,"v":"缓存"},{"t":"list_item","d":3,"v":"跨域"},{"t":"list_item","d":3,"v":"事件机制","c":[{"t":"list_item","d":4,"v":"<a href=\"docs/浏览器/事件机制/7af5dc889f753bd70e5f7ef171c7060f\" title=\"\" target=\"_blank\" rel=\"noopener noreferrer\">事件机制</a>"}]},{"t":"list_item","d":3,"v":"插件开发","c":[{"t":"list_item","d":4,"v":"<a href=\"docs/浏览器/插件开发/2c4c0445df023db773d193c34210f844\" title=\"\" target=\"_blank\" rel=\"noopener noreferrer\">chrome扩展程序</a>"},{"t":"list_item","d":4,"v":"<a href=\"docs/浏览器/插件开发/bfe71b448da24918198c18263f04233a\" title=\"\" target=\"_blank\" rel=\"noopener noreferrer\">create-react-app创建谷歌扩展</a>"}]},{"t":"list_item","d":3,"v":"渲染机制"},{"t":"list_item","d":3,"v":"事件循环机制","c":[{"t":"list_item","d":4,"v":"<a href=\"docs/浏览器/事件循环机制/dc678db259507b0c4aeb94631e2dc8a7\" title=\"\" target=\"_blank\" rel=\"noopener noreferrer\">深入理解js事件循环机制（浏览器篇）</a>"}]}]},{"t":"list_item","d":2,"v":"<a href=\"docs/95a148348b289ba387509c05eb1c6af2\" title=\"\" target=\"_blank\" rel=\"noopener noreferrer\">关于该repo</a>"},{"t":"list_item","d":2,"v":"前端安全"},{"t":"list_item","d":2,"v":"协议规范"},{"t":"list_item","d":2,"v":"工具调试","c":[{"t":"list_item","d":3,"v":"charles"},{"t":"list_item","d":3,"v":"chrome","c":[{"t":"list_item","d":4,"v":"插件"},{"t":"list_item","d":4,"v":"控制台"}]},{"t":"list_item","d":3,"v":"vscode","c":[{"t":"list_item","d":4,"v":"插件","c":[{"t":"list_item","d":5,"v":"<a href=\"docs/Node.js/常用npm_package/9688efbb3877b7be40b25452ccaef48f\" title=\"\" target=\"_blank\" rel=\"noopener noreferrer\">清单</a>"}]},{"t":"list_item","d":4,"v":"快捷键"}]}]},{"t":"list_item","d":2,"v":"性能优化"},{"t":"list_item","d":2,"v":"操作系统","c":[{"t":"list_item","d":3,"v":"linux","c":[{"t":"list_item","d":4,"v":"linux基础","c":[{"t":"list_item","d":5,"v":"<a href=\"docs/操作系统/linux/linux基础/760bccd78d82b9e52641e9273b7baad5\" title=\"\" target=\"_blank\" rel=\"noopener noreferrer\">yum</a>"},{"t":"list_item","d":5,"v":"<a href=\"docs/工程化/打包/webpack/loader/自定义loader/9b68a2b86fd6b41392413eebbe754257\" title=\"\" target=\"_blank\" rel=\"noopener noreferrer\">基础</a>"},{"t":"list_item","d":5,"v":"<a href=\"docs/ECMASCript/b53484b1bcbe1911e09c68d510ac7d64\" title=\"\" target=\"_blank\" rel=\"noopener noreferrer\">学习资源</a>"}]},{"t":"list_item","d":4,"v":"脚本","c":[{"t":"list_item","d":5,"v":"<a href=\"docs/操作系统/linux/脚本/5d8743a01675138db72310478b6c7f30\" title=\"\" target=\"_blank\" rel=\"noopener noreferrer\">bash_shell脚本</a>"},{"t":"list_item","d":5,"v":"<a href=\"docs/操作系统/linux/脚本/c89e3ed149c086944696ba0fe3a5ffde\" title=\"\" target=\"_blank\" rel=\"noopener noreferrer\">expect脚本</a>"}]}]},{"t":"list_item","d":3,"v":"常见问题","c":[{"t":"list_item","d":4,"v":"<a href=\"docs/操作系统/常见问题/5d2f732d1880309d622ee322b766ddcb\" title=\"\" target=\"_blank\" rel=\"noopener noreferrer\">进程和线程区别todo</a>"}]}]},{"t":"list_item","d":2,"v":"网络协议","c":[{"t":"list_item","d":3,"v":"<a href=\"docs/网络协议/a7785cd0374e6044ab0a1c64fbbc81fa\" title=\"\" target=\"_blank\" rel=\"noopener noreferrer\">图解http</a>"}]},{"t":"list_item","d":2,"v":"设计模式"},{"t":"list_item","d":2,"v":"微信公众号"},{"t":"list_item","d":2,"v":"算法和数据结构"},{"t":"list_item","d":2,"v":"移动端跨平台开发"}]},(loadPlugins, items, opts) => loadPlugins(items, opts),["prism"],{"prism":true})</script>
 </body>
 </html>
